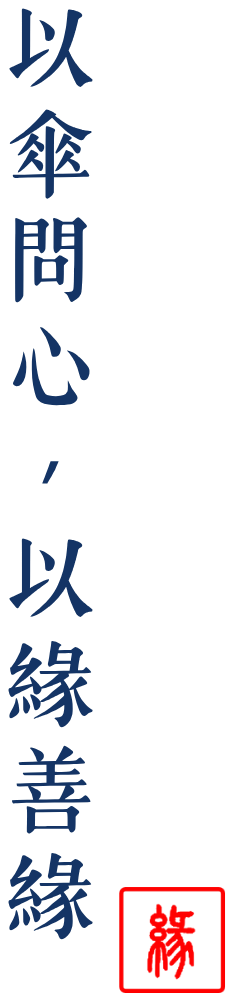
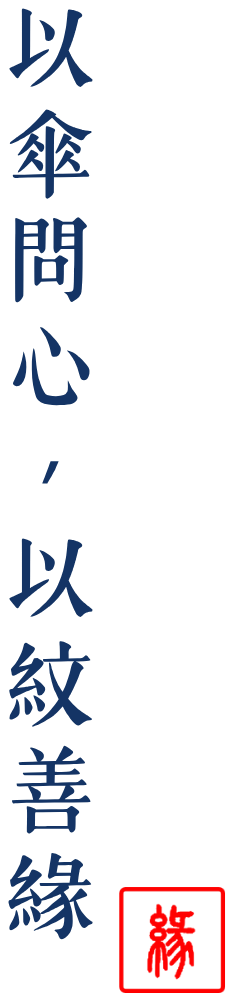
0605-1

Changed region(s): [[0.031, 0.6194, 0.4027, 0.7433]]

diff --git a/styles.css b/styles.css
@@ -221,7 +221,9 @@ button {
 .question-card {
   position: relative;
   display: block;
-  aspect-ratio: 1448 / 1086;
+  aspect-ratio: 1381 / 712;
+  width: min(100%, 520px);
+  margin: 20px auto 0;
   min-height: 0;
   border: 0;
   border-radius: 0;
@@ -233,7 +235,7 @@ button {
   width: 100%;
   height: 100%;
   min-height: 0;
-  padding: 102px 58px 64px;
+  padding: 78px 54px 50px;
   border: 0;
   resize: none;
   background: transparent;
@@ -252,19 +254,19 @@ button {
 
 .count {
   position: absolute;
-  right: 36px;
-  bottom: 38px;
+  right: 42px;
+  bottom: 28px;
   color: rgba(20, 52, 101, 0.46);
   font-size: 0.88rem;
   font-weight: 700;
 }
 
 .field-group {
-  margin-top: -46px;
+  margin-top: 12px;
 }
 
 .field-group h2 {
-  margin: 0 0 14px;
+  margin: 0 0 12px;
   color: var(--ink-deep);
   font-size: 1.1rem;
   font-weight: 900;
@@ -298,7 +300,7 @@ button {
 }
 
 .journal-panel {
-  margin-top: 12px;
+  margin-top: 18px;
 }
 
 .journal-heading {
@@ -306,7 +308,7 @@ button {
   align-items: baseline;
   justify-content: space-between;
   gap: 12px;
-  margin-bottom: 14px;
+  margin-bottom: 10px;
 }
 
 .journal-heading h2 {
@@ -327,7 +329,7 @@ button {
 .journal-list {
   display: grid;
   gap: 10px;
-  max-height: 232px;
+  max-height: 210px;
   overflow: auto;
   padding-right: 2px;
 }
@@ -913,13 +915,13 @@ button {
   }
 
   .question-card textarea {
-    padding: 88px 46px 58px;
+    padding: 66px 42px 46px;
     font-size: 0.94rem;
   }
 
   .count {
-    right: 30px;
-    bottom: 34px;
+    right: 34px;
+    bottom: 24px;
   }
 
   .relationship-options {
@@ -970,15 +972,15 @@ button {
   }
 
   .question-header {
-    margin-bottom: 14px;
+    margin-bottom: 8px;
   }
 
   .question-card textarea {
-    padding-top: 88px;
+    padding-top: 66px;
   }
 
   .field-group {
-    margin-top: -56px;
+    margin-top: 8px;
   }
 
   .field-group h2 {
@@ -986,7 +988,7 @@ button {
   }
 
   .journal-panel {
-    margin-top: 8px;
+    margin-top: 12px;
   }
 
   .journal-heading {
@@ -994,7 +996,7 @@ button {
   }
 
   .journal-list {
-    max-height: 162px;
+    max-height: 174px;
   }
 
   .next-button {
@@ -1063,7 +1065,7 @@ button {
   }
 
   .field-group {
-    margin-top: -58px;
+    margin-top: 12px;
   }
 
   .next-button {